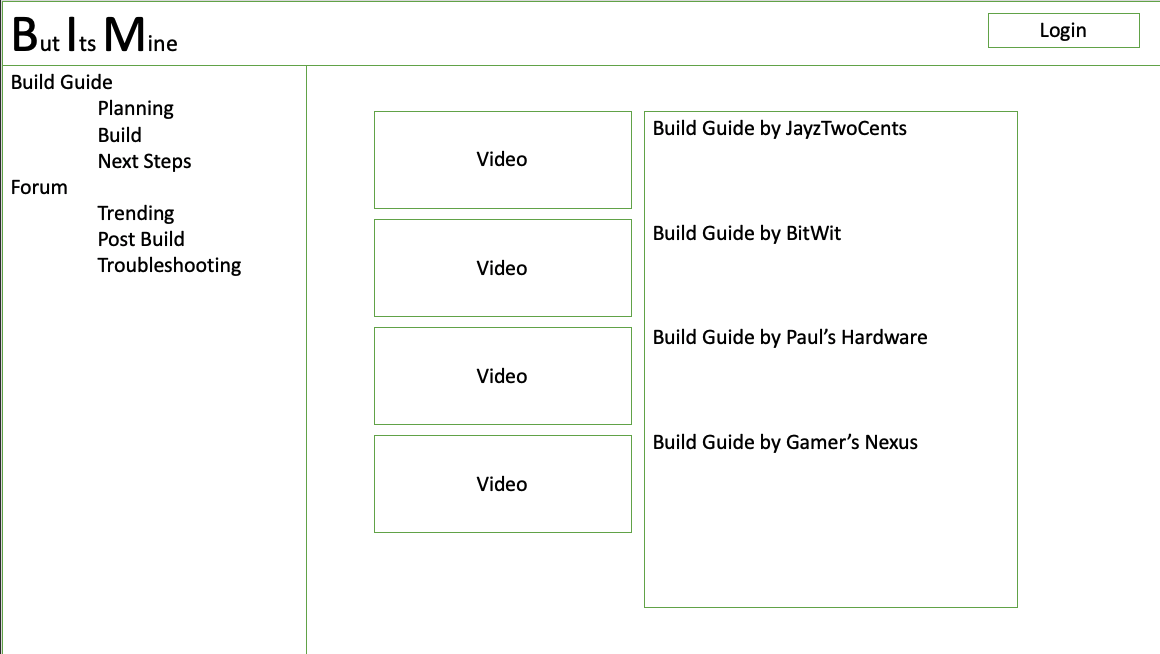
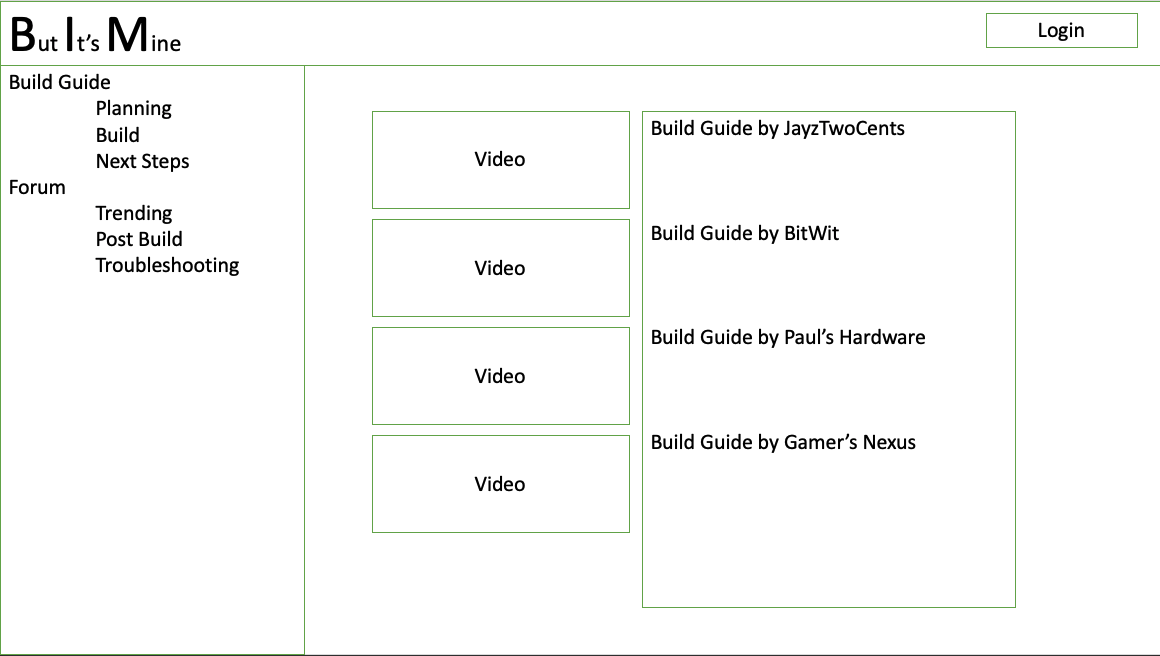
updated images

diff --git a/README.md b/README.md
@@ -1,4 +1,4 @@
-# But Its Mine
+# But It's Mine
 
 # PC Building Guide and Part Picker
 
